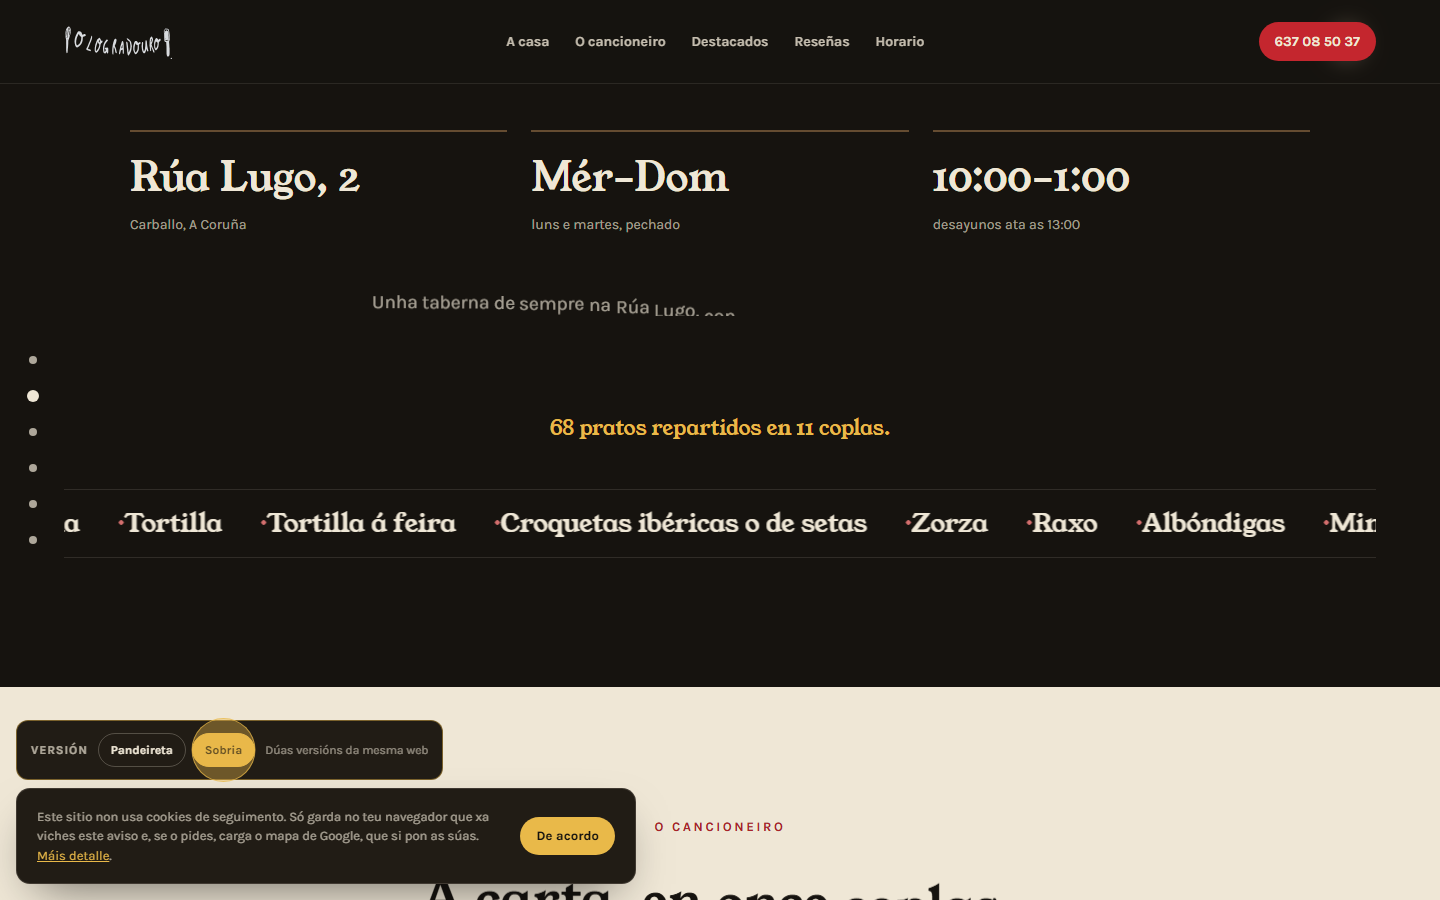
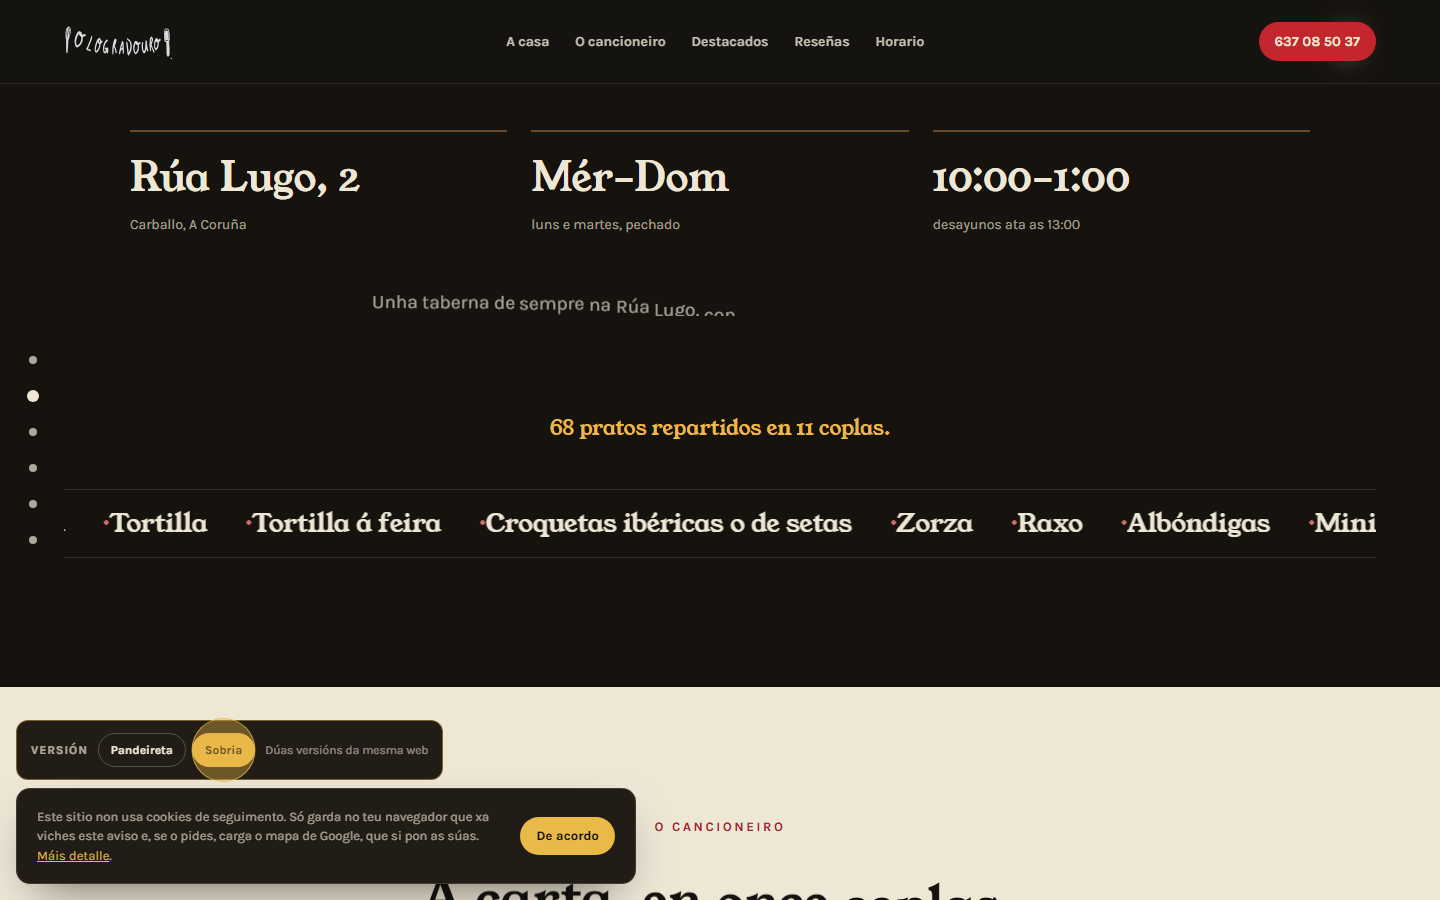
Añade contador de coplas, píldora de móvil, pulso del cursor, latido de «aberto», marquee reactivo y vibración táctil
- «Copla III de XI» en la cabecera sticky; en móvil, donde esa cabecera no es
  sticky, una píldora fija muestra la copla en curso mientras se lee la carta.
- Un único emitirGolpe() une sonido, vibración y el pulso del aro del cursor.
  Los toques directos vibran siempre; los golpes de sección solo con el son
  aceso, y nunca con reduced-motion.
- El punto «aberto» pasa del verde fuera de paleta a mostaza con latido en el
  1 y el 4 del compás de 6/8.
- El marquee de platos acelera con la velocidad de Lenis y vuelve a su ritmo al parar.

Changed region(s): [[0.0312, 0.56, 0.9688, 0.5911], [0.5, 0.9956, 0.6875, 1.0]]

diff --git a/js/main.js b/js/main.js
@@ -44,11 +44,13 @@
   /* ───────────────────────── Lenis ───────────────────────── */
   var lenis = null;
   var velocidadLenis = 0;
+  var tUltimoScroll = 0;
   if (movimiento && window.Lenis) {
     lenis = new window.Lenis({ lerp: 0.11, wheelMultiplier: 1, smoothWheel: true });
     lenis.on('scroll', function (e) {
       window.ScrollTrigger.update();
       velocidadLenis = Math.abs(e.velocity || 0);
+      tUltimoScroll = performance.now();
     });
     gsap.ticker.add(function (t) { lenis.raf(t * 1000); });
     gsap.ticker.lagSmoothing(0);
@@ -185,6 +187,20 @@
     fuente.stop(ctx.currentTime + dur + 0.02);
   }
 
+  function vibrar(ms) {
+    if (!esTactil || reduce || !navigator.vibrate) return;
+    try { navigator.vibrate(ms); } catch (e) {}
+  }
+
+  /* un «golpe» de compás: sonido (si está aceso), vibración y aviso al cursor.
+     Los toques directos vibran siempre; los golpes que dispara el scroll solo
+     con el son aceso, para no zumbar el móvil sin haberlo pedido. */
+  function emitirGolpe(intensidad, directo) {
+    golpeSonido(intensidad);
+    if (directo || sonidoActivo) vibrar(intensidad >= 0.5 ? 14 : 8);
+    document.dispatchEvent(new CustomEvent('golpe-compas', { detail: { intensidad: intensidad } }));
+  }
+
   (function botonSon() {
     var btn = document.getElementById('boton-son');
     var txt = document.getElementById('boton-son-texto');
@@ -295,7 +311,7 @@
         gsap.to(parche, { scale: 1, duration: 0.55, ease: 'elastic.out(1,0.4)', delay: 0.08 });
         gsap.to(ferrenasHero, { rotation: '+=16', duration: 0.08, ease: 'power1.inOut', yoyo: true, repeat: 3, stagger: 0.01 });
       }
-      golpeSonido(intensidad || 0.7);
+      emitirGolpe(intensidad || 0.7, true);
       setTimeout(function () { pandeireta.classList.remove('golpe'); }, 500);
     }
 
@@ -375,7 +391,7 @@
     if (boton) {
       boton.addEventListener('click', function () {
         boton.classList.add('golpe');
-        golpeSonido(0.55);
+        emitirGolpe(0.55, true);
         setTimeout(function () { boton.classList.remove('golpe'); }, 600);
         irA('#carta');
       });
@@ -402,7 +418,7 @@
         boton.classList.add('golpe');
         setTimeout(function () { boton.classList.remove('golpe'); }, 550);
       }
-      if (sonidoActivo) golpeSonido(0.3);
+      emitirGolpe(0.3, false);
     }
     /* qué sección está en pantalla es contenido, no decoración: se actualiza
        también con reduced-motion (ver feedback_reduced_motion_content_vs_motion) */
@@ -475,6 +491,12 @@
       var sobre = !!e.target.closest('a, button, #pandeireta, .map-consent');
       c.classList.toggle('cursor--activo', sobre);
       p.classList.toggle('cursor-punto--activo', sobre);
+    });
+
+    /* el aro del cursor late con cada golpe de compás */
+    document.addEventListener('golpe-compas', function (e) {
+      var fuerza = (e.detail && e.detail.intensidad) || 0.5;
+      gsap.fromTo(c, { scale: 1 }, { scale: 1 + fuerza * 0.7, duration: 0.14, ease: 'power2.out', yoyo: true, repeat: 1, overwrite: 'auto' });
     });
   })();
 
@@ -655,6 +677,18 @@
 
       /* ───── coplas ───── */
       if (contCoplas) {
+        var total = romano(datos.secciones.length);
+        var pildora = document.getElementById('copla-actual');
+        var pildoraNum = pildora ? pildora.querySelector('.copla-actual__num') : null;
+        var pildoraTit = pildora ? pildora.querySelector('.copla-actual__tit') : null;
+        if (pildora && gsapReady) {
+          window.ScrollTrigger.create({
+            trigger: contCoplas,
+            start: 'top 40%',
+            end: 'bottom 40%',
+            onToggle: function (self) { pildora.classList.toggle('visible', self.isActive); }
+          });
+        }
         datos.secciones.forEach(function (sec, i) {
           var copla = document.createElement('article');
           copla.className = 'copla';
@@ -664,7 +698,7 @@
           cab.className = 'copla__cab';
           var esEstribillo = sec.id === 'almorzos';
           cab.innerHTML =
-            '<p class="copla__num">Copla ' + romano(i + 1) + '</p>' +
+            '<p class="copla__num">Copla ' + romano(i + 1) + ' <span class="copla__de">de ' + total + '</span></p>' +
             '<h3 class="copla__titulo">' + sec.titulo + '</h3>' +
             (sec.gl && sec.gl !== sec.titulo ? '<p class="copla__gl">«' + sec.gl + '»</p>' : '') +
             (sec.nota ? '<p class="copla__nota">' + sec.nota + '</p>' : '') +
@@ -693,6 +727,20 @@
             if (!movimiento) return;
             gsap.to(versos, { opacity: 1, y: 0, duration: 0.6, ease: 'power2.out', stagger: { each: 0.02, from: 'start' } });
           });
+
+          /* píldora de móvil: qué copla estás leyendo (contenido: también con reduced-motion) */
+          if (pildora && gsapReady) {
+            window.ScrollTrigger.create({
+              trigger: copla,
+              start: 'top 40%',
+              end: 'bottom 40%',
+              onToggle: function (self) {
+                if (!self.isActive) return;
+                pildoraNum.textContent = 'Copla ' + romano(i + 1) + ' de ' + total;
+                pildoraTit.textContent = sec.titulo;
+              }
+            });
+          }
 
           /* indicador de compás: avanza con el scroll de ESA lista (contenido, no solo movimiento) */
           if (gsapReady) {
@@ -756,11 +804,15 @@
         var copias = 3;
         for (var i = 0; i < copias; i++) { var c = grupo.cloneNode(true); c.setAttribute('aria-hidden', 'true'); pista.appendChild(c); }
         if (!movimiento) return;
-        var x = 0, base = pista === pista1 ? 0.55 : 0.9;
+        var x = 0, base = pista === pista1 ? 0.55 : 0.9, impulso = 0;
         (function paso() {
           if (!html.classList.contains('densidad-sobria') || pista === pista1) {
             var ancho = grupo.offsetWidth || 1;
-            x -= base;
+            /* acelera con la velocidad del scroll, como las ferreñas; sin
+               eventos de Lenis en 120 ms se da por parado */
+            var v = performance.now() - tUltimoScroll > 120 ? 0 : Math.min(velocidadLenis, 30);
+            impulso += (v - impulso) * 0.08;
+            x -= base * (1 + impulso * 0.12);
             if (x <= -ancho) x += ancho;
             pista.style.transform = 'translate3d(' + x.toFixed(2) + 'px,0,0)';
           }

diff --git a/css/estilos.css b/css/estilos.css
@@ -191,6 +191,22 @@ html.con-cursor, html.con-cursor * { cursor: none !important; }
 .seccion-nav a.activo span { opacity: 1; transform: scale(1.5); }
 @media (max-width: 980px) { .seccion-nav { display: none; } }
 
+/* ═══════════════════════ PÍLDORA «COPLA N DE XI» (solo móvil) ═══════════════════════ */
+.copla-actual { display: none; }
+@media (max-width: 980px) {
+  .copla-actual {
+    display: flex; align-items: baseline; gap: 8px; position: fixed; z-index: 250;
+    top: calc(var(--cab) + 10px); left: 50%; max-width: calc(100vw - 32px);
+    padding: 8px 14px; border-radius: 999px; background: var(--noche); color: var(--piel);
+    font-size: 13px; white-space: nowrap; pointer-events: none;
+    box-shadow: 0 6px 20px rgba(0,0,0,.25);
+    opacity: 0; transform: translate(-50%, -10px); transition: opacity .25s, transform .25s;
+  }
+  .copla-actual.visible { opacity: 1; transform: translate(-50%, 0); }
+  .copla-actual__num { flex: none; font-size: 11px; font-weight: 700; letter-spacing: .14em; text-transform: uppercase; color: var(--mostaza); }
+  .copla-actual__tit { font-family: var(--f-display); overflow: hidden; text-overflow: ellipsis; }
+}
+
 /* ═══════════════════════ HERO ═══════════════════════ */
 .hero {
   min-height: 100svh; display: grid; grid-template-columns: 1fr 1fr; align-items: center;
@@ -249,6 +265,7 @@ html.con-cursor, html.con-cursor * { cursor: none !important; }
 .copla:first-child { border-top: 0; }
 .copla__cab { position: sticky; top: calc(var(--cab) + 24px); align-self: start; }
 .copla__num { font-size: 12px; letter-spacing: .22em; text-transform: uppercase; color: var(--lazo-sobre-piel); font-weight: 700; }
+.copla__de { color: var(--piel-apagado); }
 .copla__titulo { font-family: var(--f-display); font-weight: 400; font-size: clamp(1.7rem, 3vw, 2.4rem); margin-top: 8px; }
 .copla__gl { font-style: italic; color: var(--piel-apagado); margin-top: 6px; font-size: 15px; }
 .copla__nota { margin-top: 10px; font-size: 13.5px; color: var(--piel-apagado); max-width: 34ch; }
@@ -312,8 +329,16 @@ html:not(.con-movimiento) .verso { opacity: 1; transform: none; }
 .horario__estado h2 { font-family: var(--f-display); font-weight: 400; font-size: clamp(2rem, 4vw, 3rem); margin-top: 8px; }
 
 .estado { display: inline-flex; align-items: center; gap: 10px; margin-top: 24px; font-weight: 700; font-size: 15px; background: var(--noche-2); padding: 11px 18px; border-radius: 999px; }
-.estado i { width: 9px; height: 9px; border-radius: 50%; background: var(--mostaza); box-shadow: 0 0 0 4px color-mix(in srgb, var(--mostaza) 22%, transparent); }
-.estado.abierto i { background: #6BCB77; box-shadow: 0 0 0 4px rgba(107,203,119,.25); }
+.estado i { position: relative; width: 9px; height: 9px; border-radius: 50%; background: color-mix(in srgb, var(--piel) 35%, transparent); }
+.estado.abierto i { background: var(--mostaza); }
+/* latido en el 1 y el 4 del compás de 6/8, fuerte y débil, como el indicador de la carta */
+.estado.abierto i::before, .estado.abierto i::after {
+  content: ""; position: absolute; inset: 0; border-radius: 50%; background: var(--mostaza);
+  opacity: 0; animation: latido 2.4s cubic-bezier(.2,.6,.3,1) infinite;
+}
+.estado.abierto i::after { animation-name: latido-debil; animation-delay: 1.2s; }
+@keyframes latido { 0% { transform: scale(1); opacity: .6; } 60%, 100% { transform: scale(3.2); opacity: 0; } }
+@keyframes latido-debil { 0% { transform: scale(1); opacity: .35; } 60%, 100% { transform: scale(2.4); opacity: 0; } }
 
 .horario__tabla { margin-top: 22px; display: grid; gap: 6px; font-size: 14px; max-width: 320px; }
 .horario__tabla li { display: flex; justify-content: space-between; padding: 6px 0; border-bottom: 1px dashed color-mix(in srgb, var(--piel) 14%, transparent); }

diff --git a/index.html b/index.html
@@ -113,6 +113,9 @@
   <a href="#horario" data-seccion="horario" aria-label="Ir a Horario e onde"><span></span></a>
 </nav>
 
+<!-- móvil: en qué copla de la carta estás (duplica la cabecera de cada copla, por eso aria-hidden) -->
+<p class="copla-actual" id="copla-actual" aria-hidden="true"><span class="copla-actual__num"></span><span class="copla-actual__tit"></span></p>
+
 <!-- botón fijo: la pandereta atraca aquí tras el hero y abre a carta -->
 <button class="pandeireta-boton" id="pandeireta-boton" type="button" hidden aria-label="Abrir o cancioneiro (a carta)">
   <svg viewBox="0 0 120 120" aria-hidden="true">
